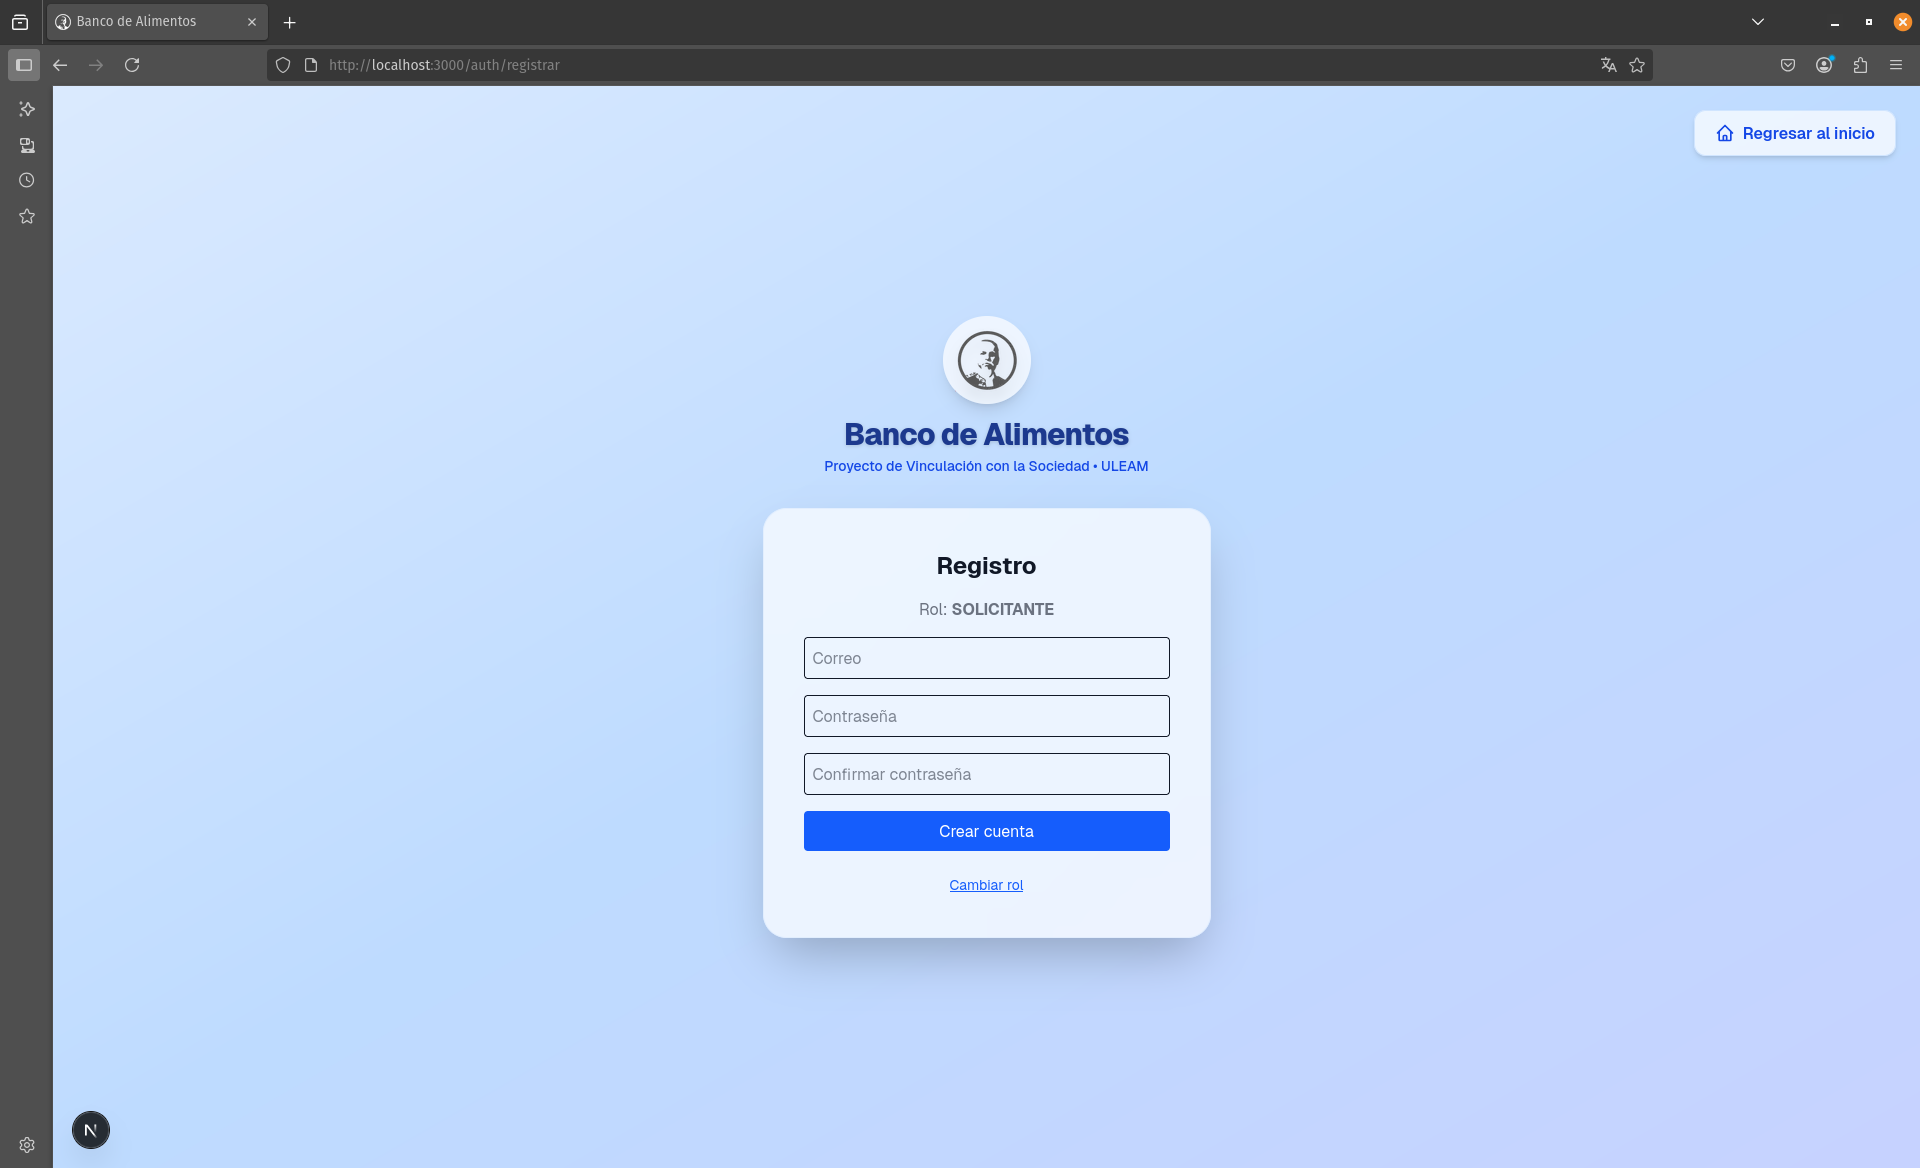
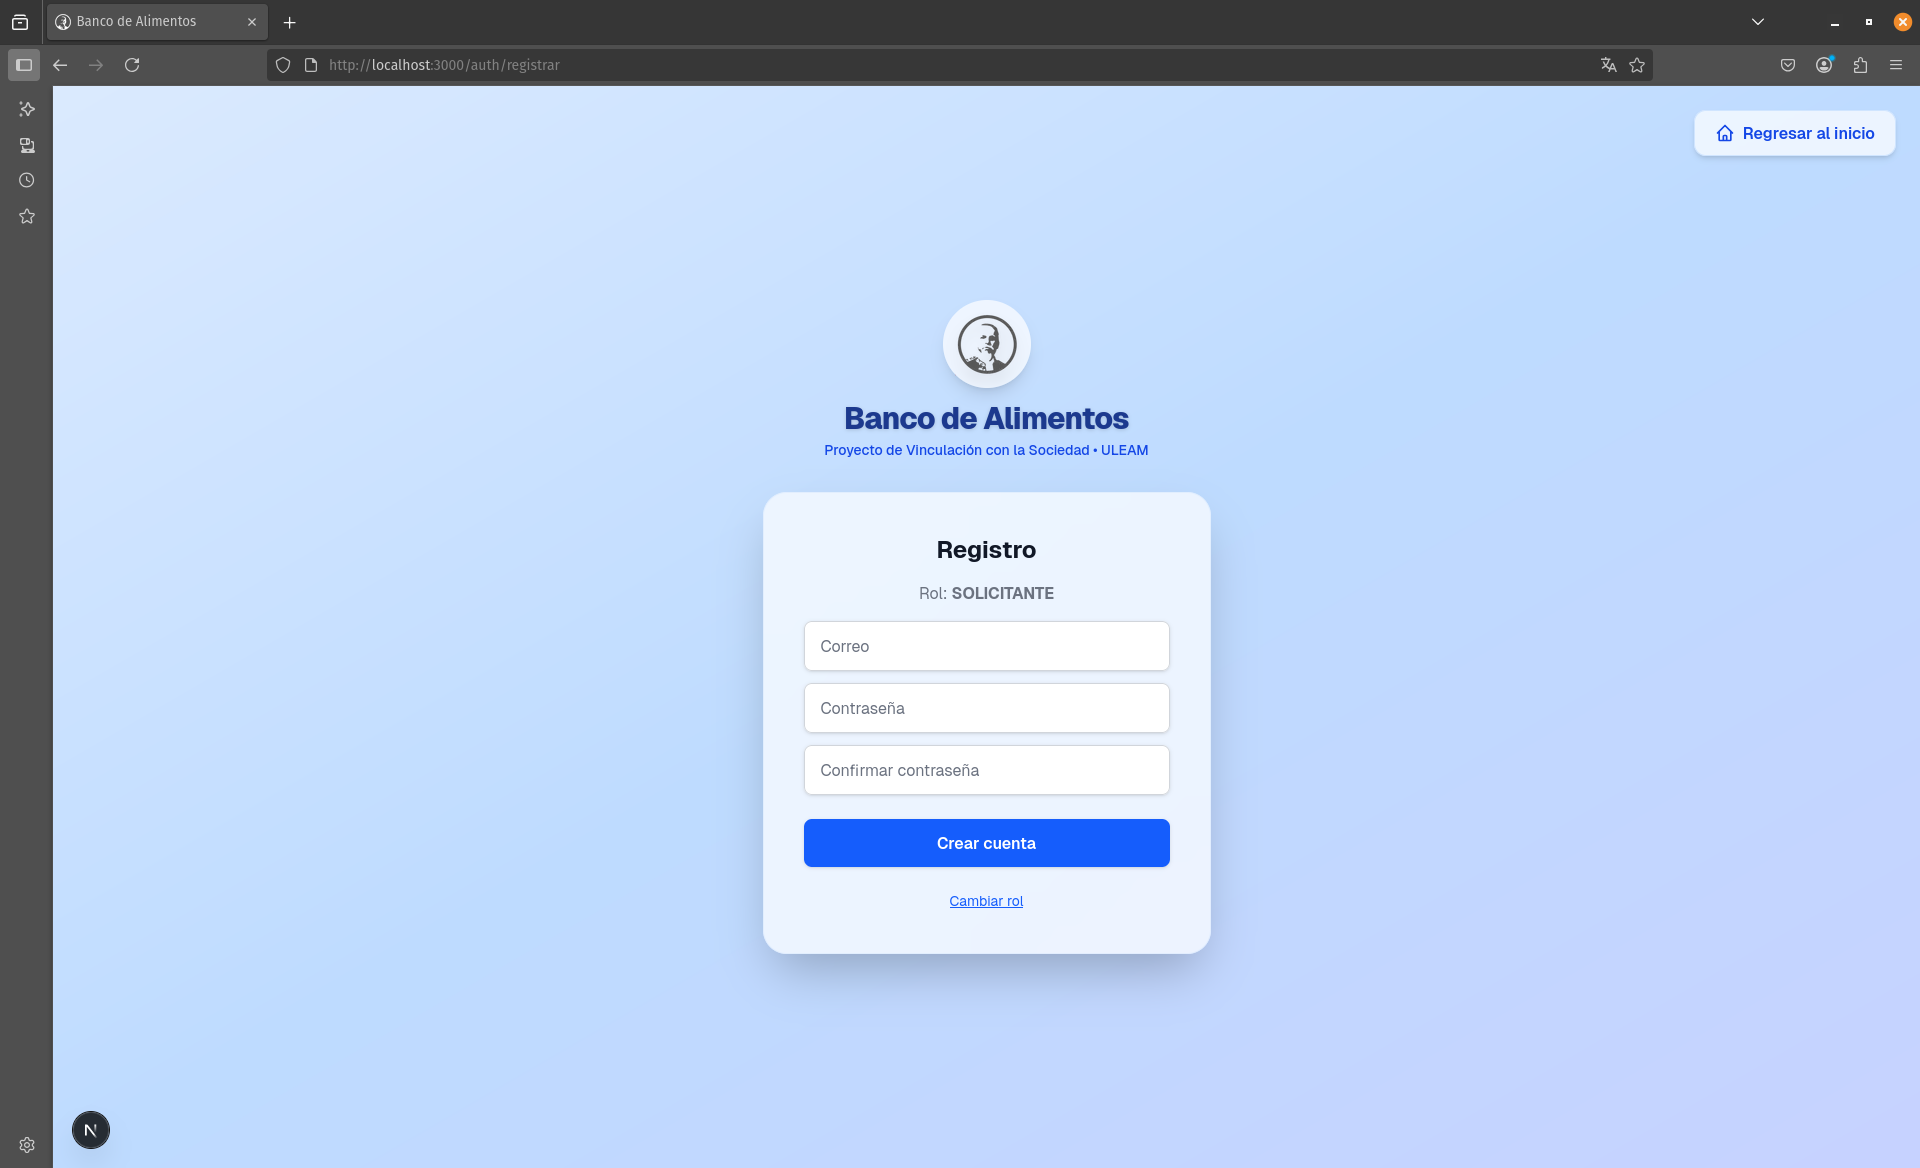
update readme and styles

Changed region(s): [[0.4062, 0.5548, 0.625, 0.8322], [0.4062, 0.2466, 0.625, 0.5548]]

diff --git a/src/app/auth/registrar/page.tsx b/src/app/auth/registrar/page.tsx
@@ -87,38 +87,41 @@ export default function PaginaRegistroSimple() {
         <>
           <input type="hidden" name="rol" value={rolSeleccionado} />
           <p className="text-center text-gray-500">Rol: <b>{rolSeleccionado}</b></p>
-          <input
-            name="email"
-            type="email"
-            required
-            placeholder="Correo"
-            className="w-full border p-2 rounded"
-            value={datos.email}
-            onChange={manejarCambio}
-          />
-          <input
-            name="contrasena"
-            type="password"
-            required
-            placeholder="Contraseña"
-            className="w-full border p-2 rounded"
-            value={datos.contrasena}
-            onChange={manejarCambio}
-          />
-          <input
-            name="confirmar"
-            type="password"
-            required
-            placeholder="Confirmar contraseña"
-            className="w-full border p-2 rounded"
-            value={datos.confirmar}
-            onChange={manejarCambio}
-          />
-          {error && <div className="text-red-600">{error}</div>}
+
+          <div className="space-y-3">
+            <input
+              name="email"
+              type="email"
+              required
+              placeholder="Correo"
+              className="w-full border border-gray-300 rounded-lg px-4 py-3 focus:ring-2 focus:ring-blue-400 outline-none transition-all shadow-sm bg-white placeholder-gray-500"
+              value={datos.email}
+              onChange={manejarCambio}
+            />
+            <input
+              name="contrasena"
+              type="password"
+              required
+              placeholder="Contraseña"
+              className="w-full border border-gray-300 rounded-lg px-4 py-3 focus:ring-2 focus:ring-blue-400 outline-none transition-all shadow-sm bg-white placeholder-gray-500"
+              value={datos.contrasena}
+              onChange={manejarCambio}
+            />
+            <input
+              name="confirmar"
+              type="password"
+              required
+              placeholder="Confirmar contraseña"
+              className="w-full border border-gray-300 rounded-lg px-4 py-3 focus:ring-2 focus:ring-blue-400 outline-none transition-all shadow-sm bg-white placeholder-gray-500"
+              value={datos.confirmar}
+              onChange={manejarCambio}
+            />
+          </div>
+          {error && <div className="text-red-600 bg-red-100 p-2 rounded mt-2 text-center">{error}</div>}
           <button
             type="submit"
             disabled={cargando}
-            className="w-full bg-blue-600 text-white py-2 rounded"
+            className="w-full bg-blue-600 text-white py-3 rounded-lg font-semibold shadow hover:bg-blue-700 transition-all mt-2"
           >
             {cargando ? 'Creando...' : 'Crear cuenta'}
           </button>

diff --git a/src/app/page.tsx b/src/app/page.tsx
@@ -2,22 +2,24 @@ import Link from "next/link";
 
 export default function HomePage() {
   return (
-    <div className="flex flex-col items-center justify-center h-screen space-y-6">
-      <h1 className="text-4xl font-bold">Próximamente</h1>
-      <p className="text-lg text-gray-600">
-        El contenido de esta página estará disponible próximamente.
-      </p>
-      <div className="flex space-x-4 mt-4">
-        <Link href="/auth/iniciar-sesion">
-          <button className="px-6 py-2 bg-blue-600 text-white rounded-lg shadow hover:bg-blue-700 transition">
-            Iniciar sesión
-          </button>
-        </Link>
-        <Link href="/auth/registrar">
-          <button className="px-6 py-2 bg-green-600 text-white rounded-lg shadow hover:bg-green-700 transition">
-            Registrarse
-          </button>
-        </Link>
+    <div className="flex flex-col items-center justify-center min-h-screen bg-gradient-to-br from-blue-100 via-blue-200 to-blue-400">
+      <div className="space-y-6 max-w-md w-full mx-auto">
+        <h1 className="text-4xl font-bold text-center">Próximamente</h1>
+        <p className="text-lg text-gray-600 text-center">
+          El contenido de esta página estará disponible próximamente.
+        </p>
+        <div className="flex space-x-4 justify-center mt-4">
+          <Link href="/auth/iniciar-sesion">
+            <button className="px-6 py-2 bg-blue-600 text-white rounded-lg shadow hover:bg-blue-700 transition">
+              Iniciar sesión
+            </button>
+          </Link>
+          <Link href="/auth/registrar">
+            <button className="px-6 py-2 bg-green-600 text-white rounded-lg shadow hover:bg-green-700 transition">
+              Registrarse
+            </button>
+          </Link>
+        </div>
       </div>
     </div>
   );

diff --git a/src/app/perfil/completar/page.tsx b/src/app/perfil/completar/page.tsx
@@ -271,7 +271,7 @@ export default function CompletarPerfil() {
   };
 
   return (
-    <div className="min-h-screen py-10 flex items-center justify-center bg-gradient-to-br from-blue-50 via-white to-blue-100">
+    <div className="flex flex-col items-center justify-center min-h-screen bg-gradient-to-br from-blue-100 via-blue-200 to-blue-400">
       <form
         className="w-full max-w-lg mx-auto bg-white rounded-2xl shadow-xl border border-blue-100 p-8 space-y-6"
         onSubmit={manejarEnvio}

diff --git a/README.md b/README.md
@@ -9,7 +9,6 @@
   - Proceso de registro simplificado: formulario mínimo, sin pasos múltiples ni validaciones extensas; onboarding mucho más rápido.
 ![Ruta /auth/registrar ](images/Screenshot%202025-06-20%20at%2017-43-45%20Banco%20de%20Alimentos.png)
 ![Ruta /auth/registrar ](images/image%20copy.png)
-![Ruta /auth/registrar ](images/Screenshot%202025-06-20%20at%2017-49-44%20Banco%20de%20Alimentos.png)
 - /auth/olvide-contrasena
 ![Ruta /auth/olvide-contrasena ](images/Screenshot%202025-06-20%20at%2017-51-23%20Banco%20de%20Alimentos.png)
 - /dashboard
